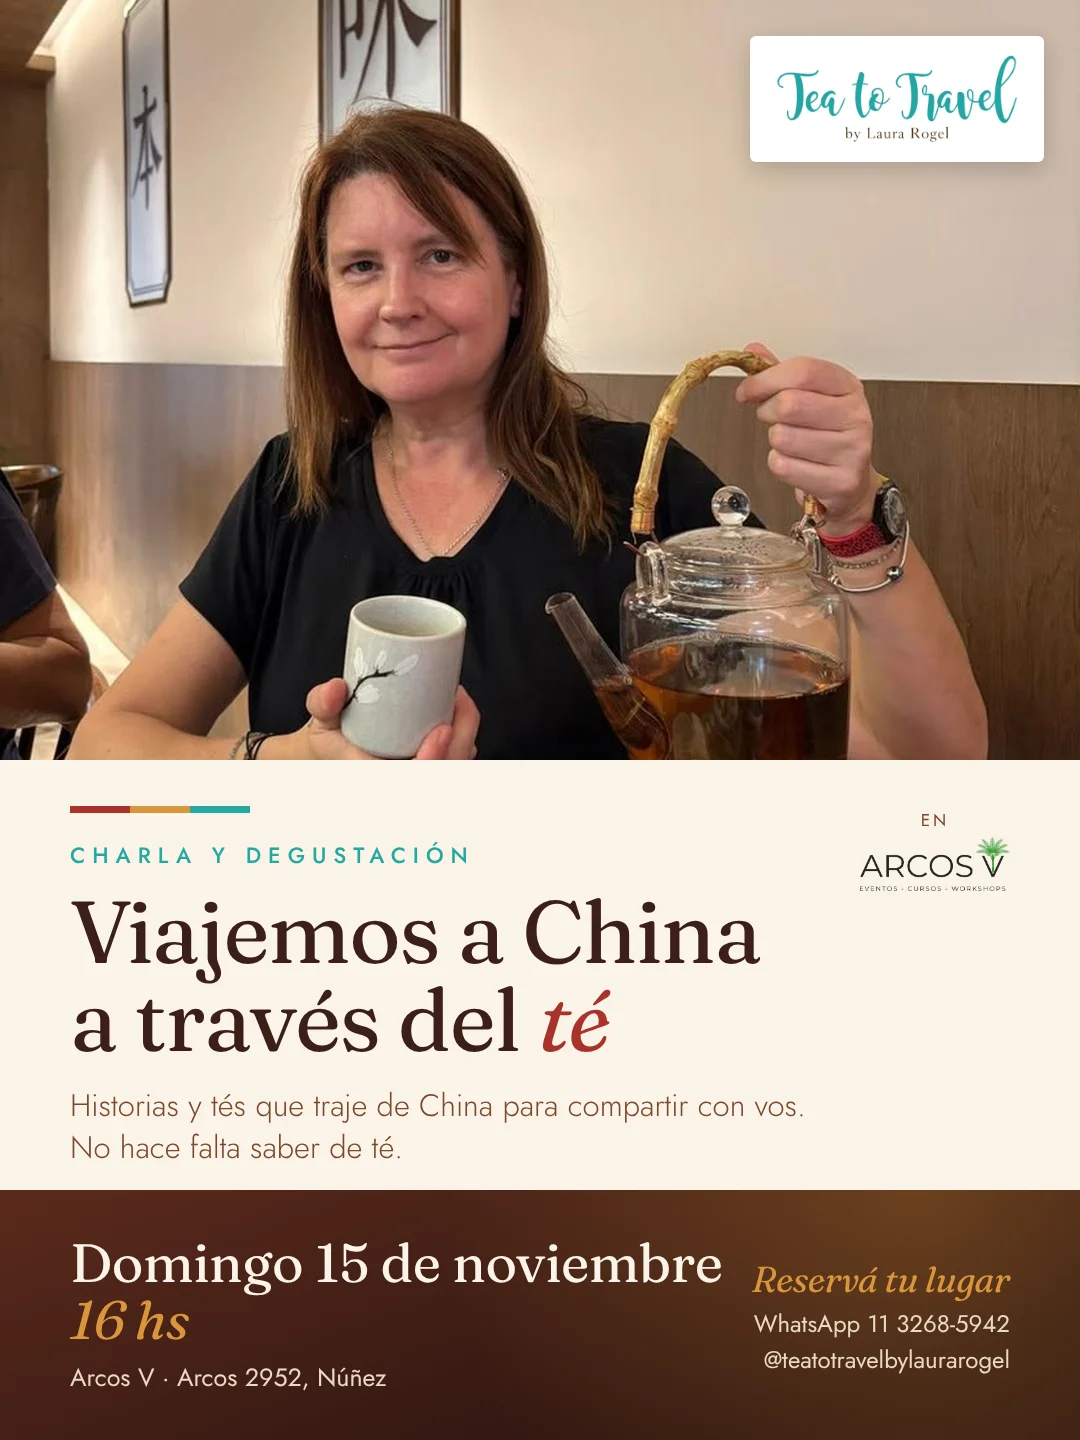
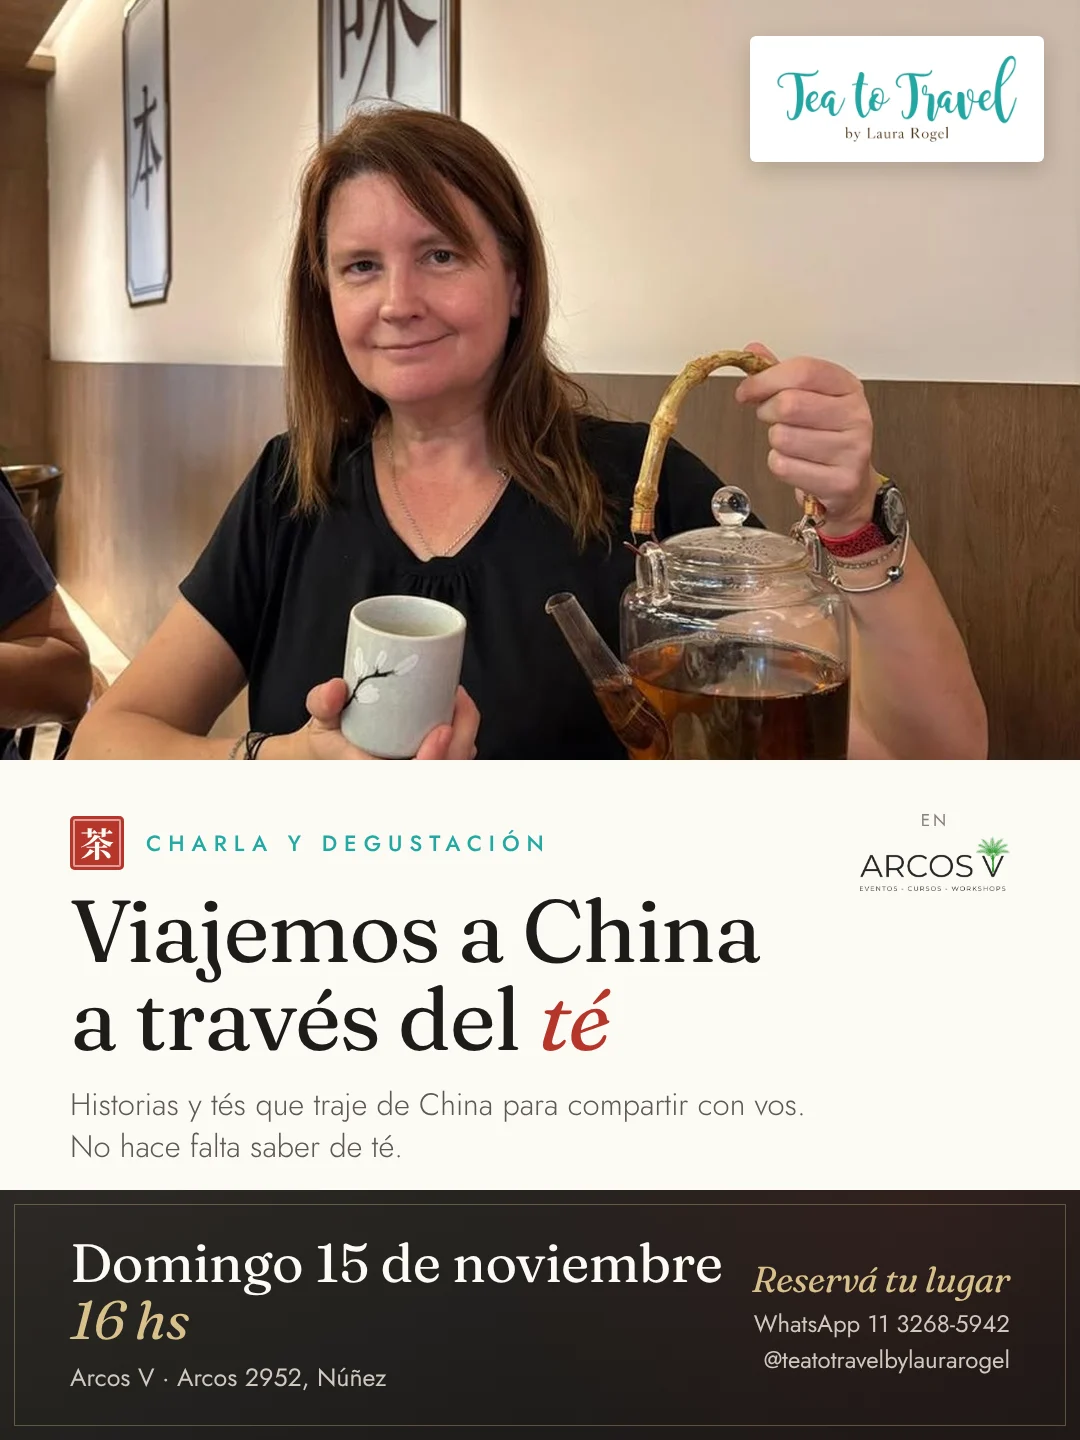
Té de China: flyer y página con estilo chino sutil (papel de arroz, tinta, sello 茶)
Claude-Session: https://claude.ai/code/session_01BHQShBsDDWN6GNS1bxQJ2C

Changed region(s): [[0.0, 0.5312, 1.0, 1.0], [0.4889, 0.625, 0.7028, 0.7188], [0.7028, 0.75, 0.7333, 0.7812]]

diff --git a/te-china.html b/te-china.html
@@ -50,6 +50,7 @@
     <link rel="icon" type="image/png" sizes="512x512" href="favicon-512.png">
     <link rel="apple-touch-icon" href="apple-touch-icon.png">
     <link href="https://fonts.googleapis.com/css2?family=Fraunces:ital,opsz,wght@0,9..144,400;0,9..144,500;0,9..144,600;1,9..144,400;1,9..144,500&family=Jost:wght@300;400;500;600&display=swap" rel="stylesheet">
+    <link href="https://fonts.googleapis.com/css2?family=Noto+Serif+TC:wght@700&text=%E8%8C%B6&display=swap" rel="stylesheet">
     <style>
         :root {
             --primary: #1E8F8A;
@@ -252,28 +253,32 @@
         .datos li:last-child { border-bottom: none; }
         .flyer { display: block; width: 100%; max-width: 420px; margin: 24px auto 0; border-radius: var(--radius); box-shadow: 0 8px 24px rgba(23,58,42,0.10); }
 
-        /* --- Paleta e impronta propia: tés de China (oolong, laca roja, ámbar, jade) --- */
-        :root { --bg: #FBF4E8; --text: #3A1F17; --rojo: #A8322A; --ambar: #D9963A; --jade: #24A8A2; --primary: #A8322A; --noche: #2B140F; }
-        body { font-family: 'Jost', sans-serif; color: var(--text); }
+        /* --- Impronta propia: estilo chino sutil (papel de arroz, tinta, sello rojo, dorado) --- */
+        :root { --bg: #FCFAF5; --text: #1E1C1A; --rojo: #B5362B; --oro: #A88A4E; --jade: #24A8A2; --primary: #B5362B; --noche: #1A1816; }
+        body { font-family: 'Jost', sans-serif; color: var(--text); background: var(--bg); }
+        .site-header { background: rgba(252,250,245,0.94); }
         h1, h2, .bajada-te, .event-meta { font-family: 'Fraunces', serif; }
         h1 { font-weight: 500; letter-spacing: -1px; line-height: 1.05; color: var(--text); font-size: 46px; }
         h1 em { font-style: italic; font-weight: 400; color: var(--rojo); }
-        h2 { font-weight: 500; letter-spacing: -0.4px; }
+        h2 { font-weight: 500; letter-spacing: -0.4px; color: var(--text); }
+        .cabeza { display: flex; align-items: center; gap: 14px; margin-bottom: 14px; }
+        .cabeza .event-category { margin-bottom: 0; }
+        .sello { width: 38px; height: 38px; background: var(--rojo); color: #FCFAF5; font-family: 'Noto Serif TC', serif; font-weight: 700; font-size: 23px; line-height: 38px; text-align: center; border-radius: 4px; box-shadow: inset 0 0 0 2px var(--rojo), inset 0 0 0 3px rgba(252,250,245,.55); flex-shrink: 0; }
         .event-category { font-family: 'Jost', sans-serif; font-weight: 500; letter-spacing: 4px; font-size: 12px; color: var(--jade); }
-        .bajada-te { font-weight: 400; font-size: 23px; color: #7A4A30; }
-        .event-meta { color: var(--rojo); }
-        .description { color: #5A3E33; }
-        .proxima { border-left: 4px solid var(--ambar); box-shadow: 0 8px 24px rgba(58,31,23,0.10); }
-        .proxima h2 { color: var(--text); }
-        .box-info { box-shadow: 0 8px 24px rgba(58,31,23,0.10); }
-        .main-image, .flyer { box-shadow: 0 8px 24px rgba(58,31,23,0.14); }
-        .autora img { border-color: var(--ambar); }
-        .btn-ws { background-color: var(--rojo); color: #FBF4E8; font-family: 'Jost', sans-serif; font-weight: 600; letter-spacing: 0.3px; }
-        .btn-ws:hover { background-color: #8C2721; }
-        .te-bloque { background: radial-gradient(circle at 82% 12%, rgba(217,150,58,0.28), transparent 45%), linear-gradient(160deg, #5A2A1C 0%, #2B140F 78%); }
-        .te-bloque h2 { color: #FBF4E8; }
-        .te-bloque p { color: #EBD9C6; }
-        .te-bloque strong { color: var(--ambar) !important; }
+        .bajada-te { font-weight: 400; font-size: 23px; color: #5E5852; }
+        .event-meta { color: var(--oro); }
+        .description { color: #5E5852; }
+        .proxima { border-left: 3px solid var(--rojo); box-shadow: 0 8px 24px rgba(30,28,26,0.08); }
+        .box-info { box-shadow: 0 8px 24px rgba(30,28,26,0.08); }
+        .main-image, .flyer { box-shadow: 0 8px 24px rgba(30,28,26,0.12); }
+        .autora img { border-color: var(--oro); }
+        .btn-ws { background-color: #24211E; color: #FCFAF5; font-family: 'Jost', sans-serif; font-weight: 500; letter-spacing: 0.5px; }
+        .btn-ws:hover { background-color: var(--rojo); }
+        .te-bloque { position: relative; background: radial-gradient(circle at 85% 10%, rgba(181,54,43,0.12), transparent 45%), linear-gradient(160deg, #2C2926 0%, #1A1816 85%); }
+        .te-bloque::before { content: ''; position: absolute; inset: 10px; border: 1px solid rgba(216,192,138,.35); border-radius: 4px; pointer-events: none; }
+        .te-bloque h2 { color: #FCFAF5; }
+        .te-bloque p { color: #CFC8BE; }
+        .te-bloque strong { color: #D8C08A !important; }
         @media (max-width: 600px) { h1 { font-size: 34px; } }
 
     </style>
@@ -294,7 +299,7 @@
 
         <img src="te-china-flyer-arcosv.webp" alt="Flyer de Viajemos a China a través del té con Laura Rogel, domingo 15 de noviembre a las 16 hs en Arcos V" class="main-image">
 
-        <span class="event-category">CHARLA Y DEGUSTACIÓN · TÉ</span>
+        <div class="cabeza"><span class="sello" aria-hidden="true">茶</span><span class="event-category">CHARLA Y DEGUSTACIÓN · TÉ</span></div>
         <img src="tea-to-travel-logo.webp" alt="Tea to Travel by Laura Rogel" class="logo-ttt" width="600" height="226">
         <h1>Viajemos a China a través del <em>té</em></h1>
         <p class="bajada-te">Historias, lugares y tés que Laura trajo de su viaje, para descubrir nuevos sabores en una tarde distinta.</p>
@@ -332,7 +337,7 @@
 
         <!-- CONTACTO -->
         <div class="box-info">
-            <h3 style="font-family: 'Fraunces', serif; font-size: 30px; font-weight: 500; color: var(--rojo);">¿Te gustaría sumarte?</h3>
+            <h3 style="font-family: 'Fraunces', serif; font-size: 30px; font-weight: 500; color: var(--text);">¿Te gustaría sumarte?</h3>
             <p>Las consultas e inscripciones las gestiona directamente Laura.</p>
             <a href="https://wa.me/5491132685942?text=Hola%20Laura!%20Quiero%20info%20de%20Viajemos%20a%20China%20a%20trav%C3%A9s%20del%20t%C3%A9%20en%20Arcos%20V." target="_blank" rel="noopener" class="btn-ws">Consultar por WhatsApp</a>
             <p style="margin-top: 16px; font-size: 15px;"><a href="https://www.instagram.com/teatotravelbylaurarogel/" target="_blank" rel="noopener" style="color: #888;">Conocé Tea to Travel en Instagram →</a></p>
